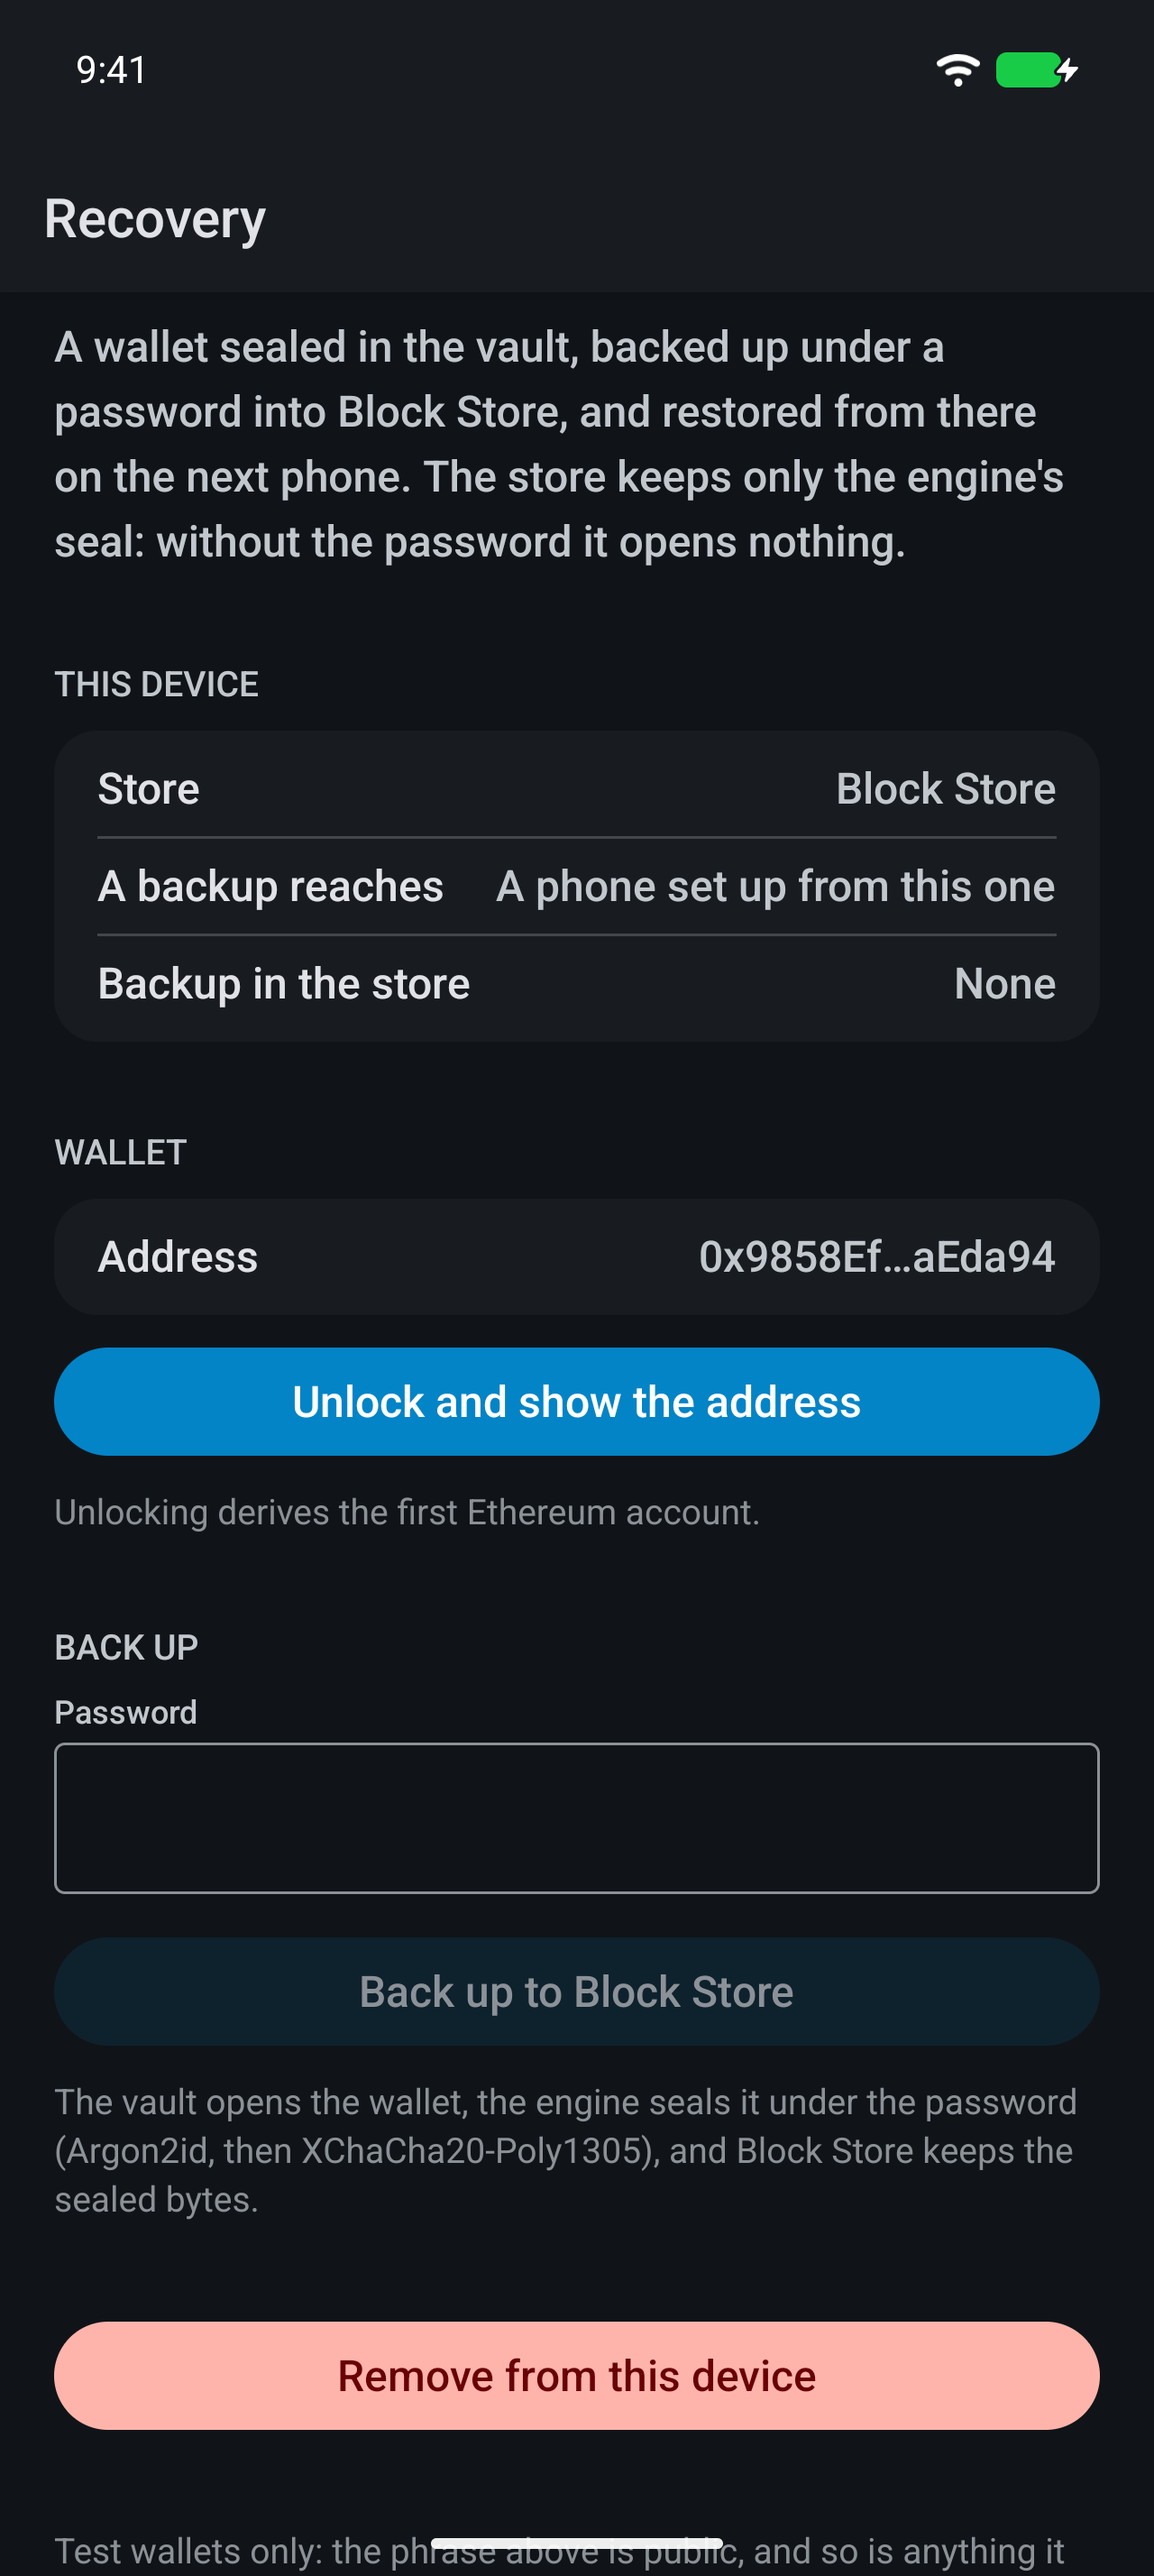
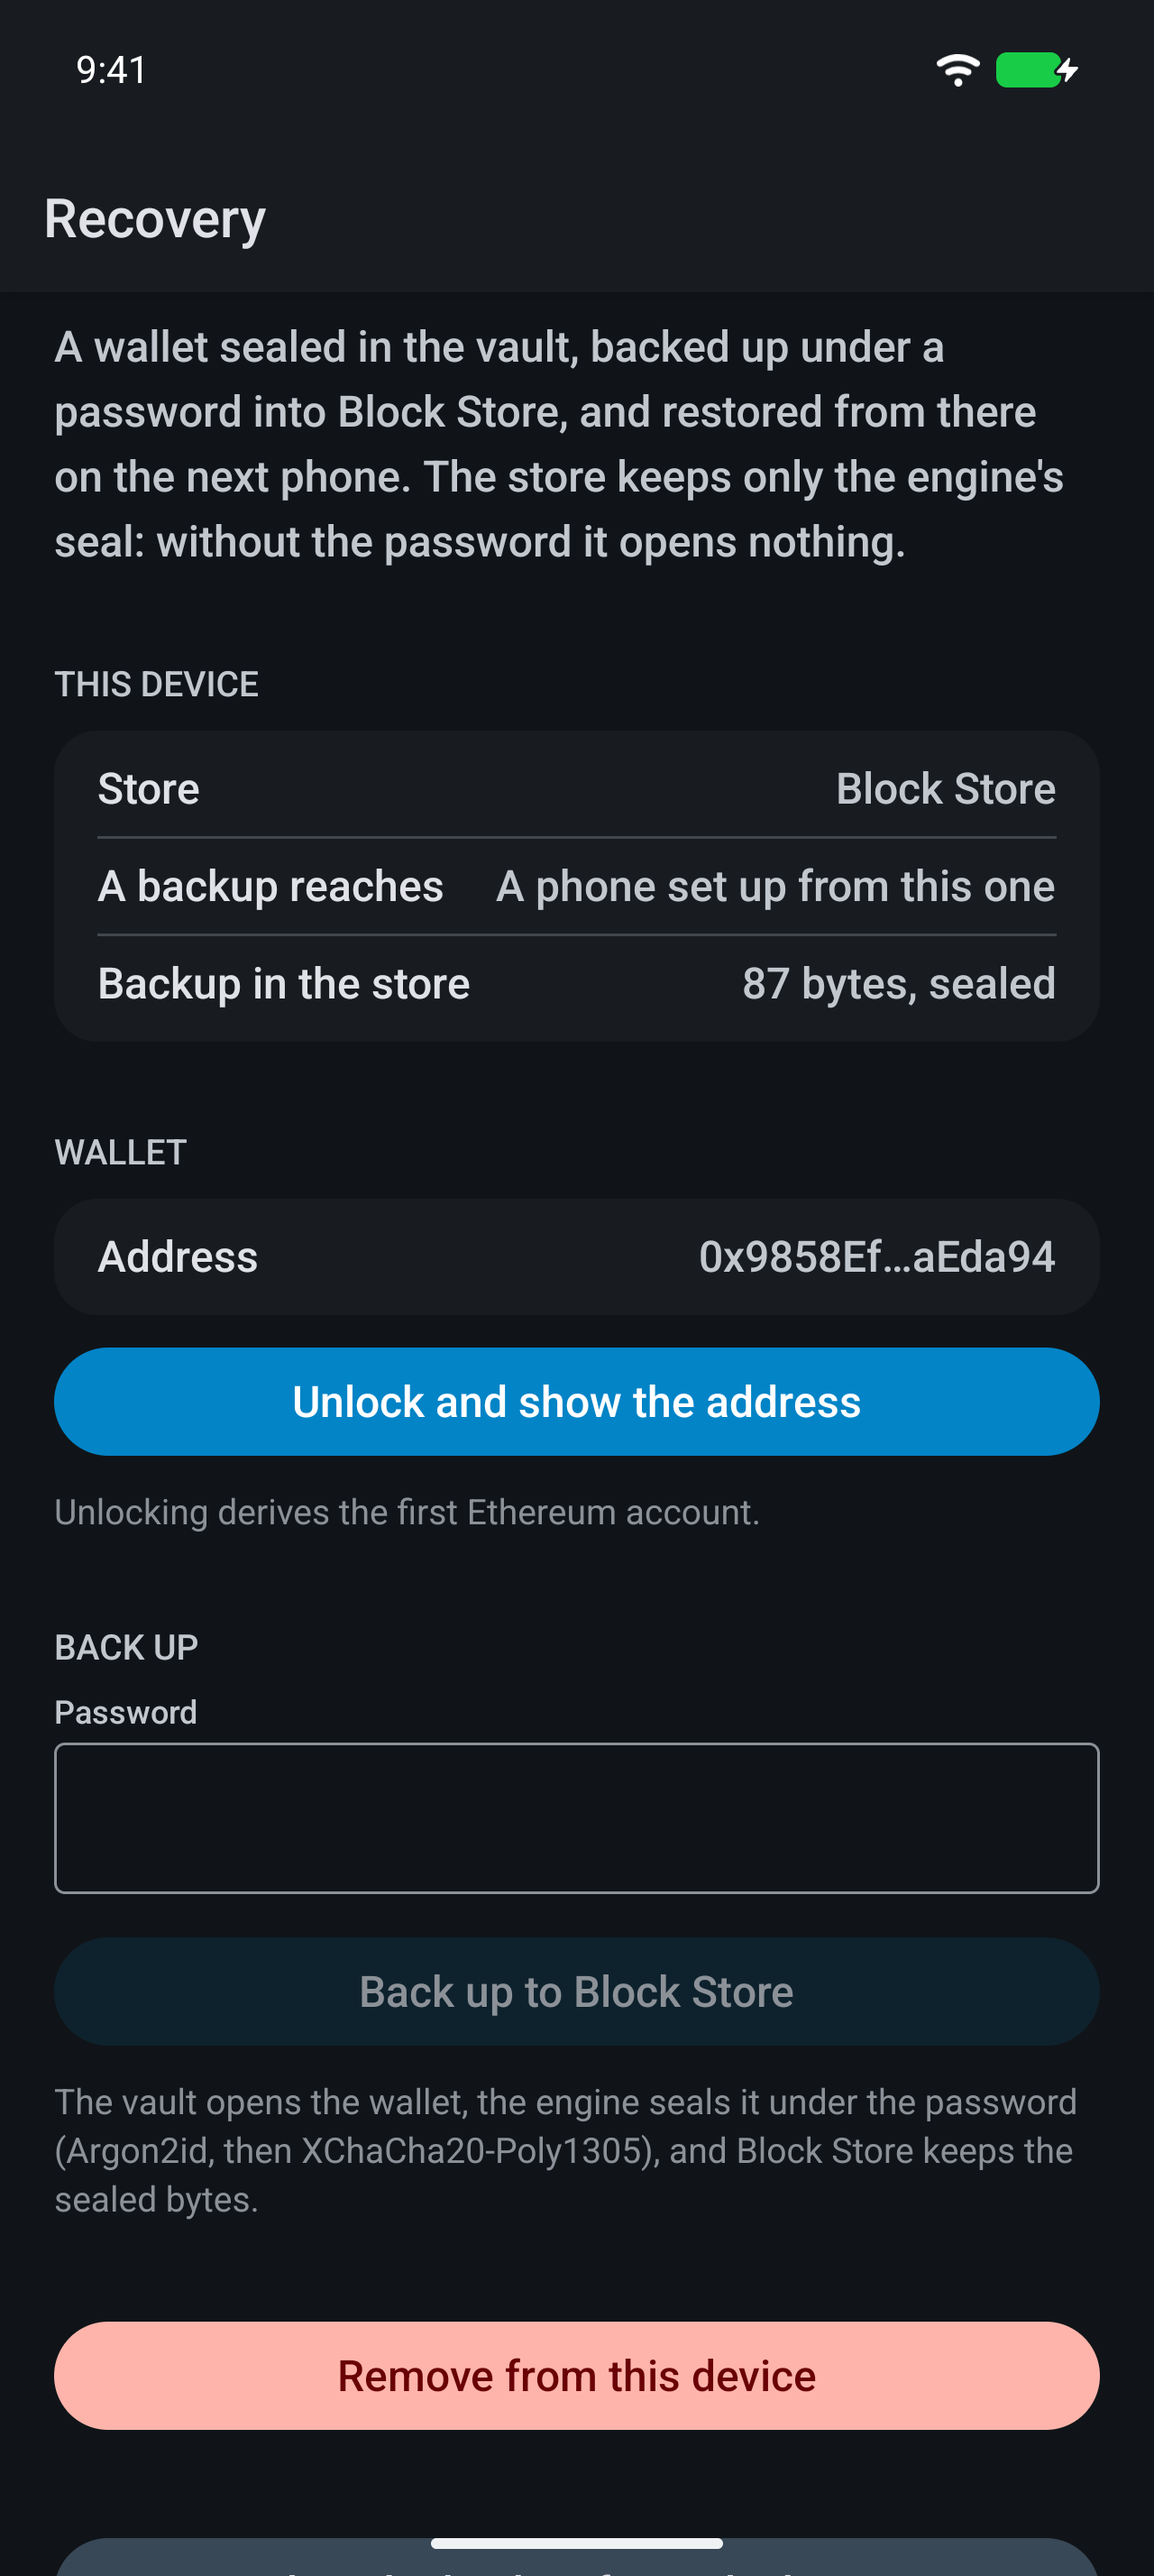
docs: the Android screenshot shows the backup in Block Store

Changed region(s): [[0.0312, 0.966, 0.9688, 1.0], [0.6562, 0.3739, 0.7812, 0.4051], [0.8125, 0.3739, 0.9062, 0.4051]]

diff --git a/packages/crypto-recovery/README.md b/packages/crypto-recovery/README.md
@@ -12,7 +12,7 @@ password, never a secret, and nothing that is not a sealed backup.
 <p>
   <img alt="The example on iOS: the wallet's sealed backup in iCloud Keychain, 87 bytes, and the wallet unlocked to its address" height="560" src="https://raw.githubusercontent.com/hzblj/crypto-recovery/main/media/ios-recovery.png" />
   <img alt="After the phone is lost: the backup still in iCloud Keychain, restored with the password straight into this phone's hardware" height="560" src="https://raw.githubusercontent.com/hzblj/crypto-recovery/main/media/ios-restore.png" />
-  <img alt="The same on the Android emulator: Block Store, which a phone set up from this one restores" height="560" src="https://raw.githubusercontent.com/hzblj/crypto-recovery/main/media/android-recovery.png" />
+  <img alt="The same on the Android emulator: the 87-byte backup in Block Store, which a phone set up from this one restores" height="560" src="https://raw.githubusercontent.com/hzblj/crypto-recovery/main/media/android-recovery.png" />
 </p>
 
 ```sh

diff --git a/README.md b/README.md
@@ -11,7 +11,7 @@ next phone finds them. The store sees ciphertext, never a password or a secret.
 <p>
   <img alt="The example on iOS: the wallet's sealed backup in iCloud Keychain, 87 bytes, and the wallet unlocked to its address" height="560" src="media/ios-recovery.png" />
   <img alt="After the phone is lost: the backup still in iCloud Keychain, restored with the password straight into this phone's hardware" height="560" src="media/ios-restore.png" />
-  <img alt="The same on the Android emulator: Block Store, which a phone set up from this one restores" height="560" src="media/android-recovery.png" />
+  <img alt="The same on the Android emulator: the 87-byte backup in Block Store, which a phone set up from this one restores" height="560" src="media/android-recovery.png" />
 </p>
 
 ```sh
